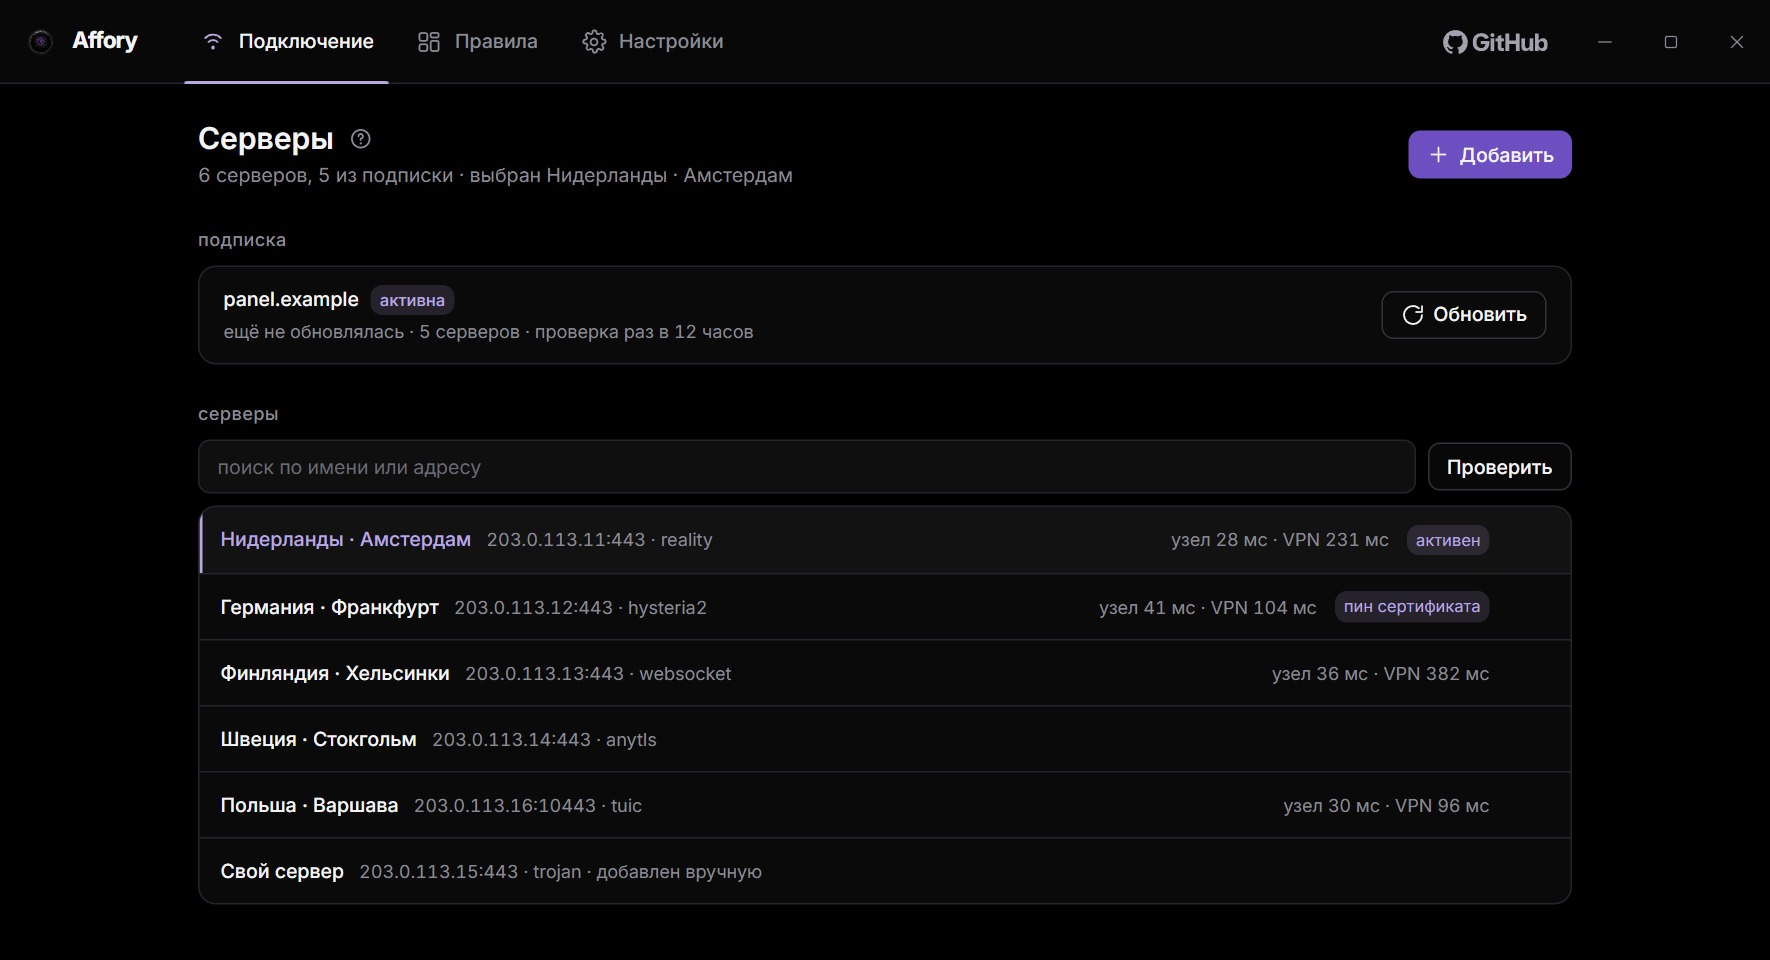
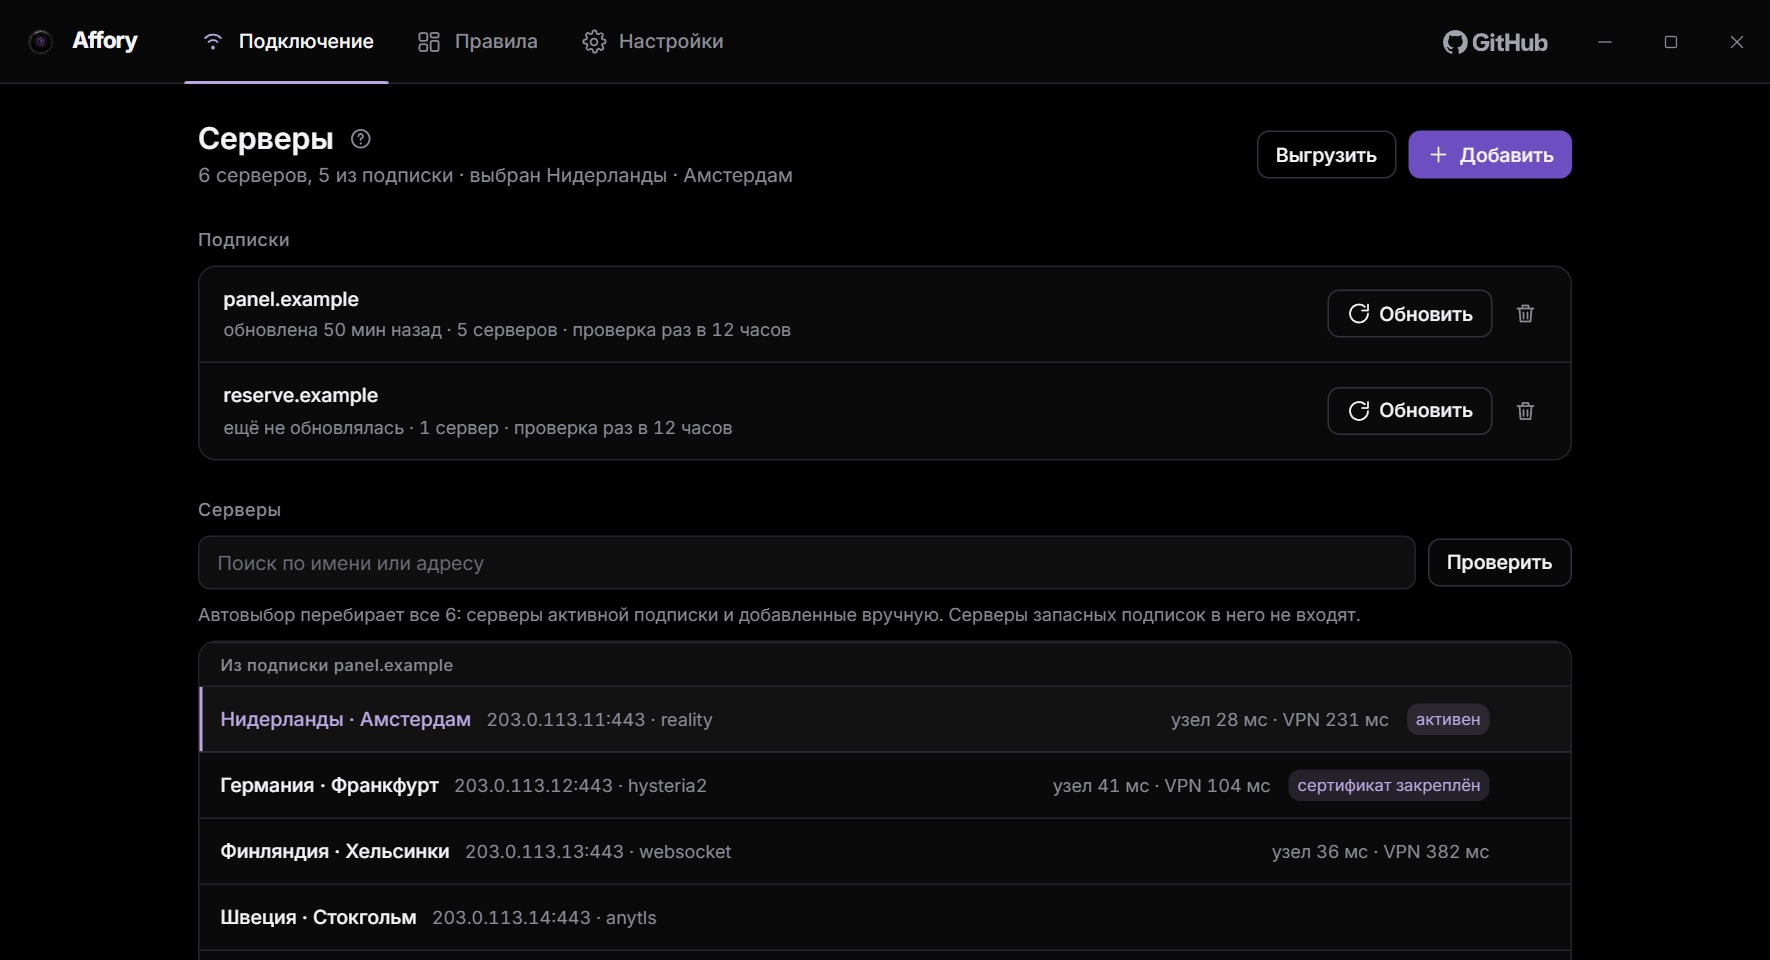
README по текущему окну: журнал и диагностика в «Настройках», снимки с вкладкой «Реклама», подпись сервисов без числа

diff --git a/README.md b/README.md
@@ -31,7 +31,7 @@
 - Хранить несколько подписок и переключаться между ними мгновенно.
 - Проверять соединение на утечки и показывать адрес выхода. Диагностика ничего не меняет, только смотрит.
 - Работать в трее, подключаться при запуске и блокировать сеть при обрыве VPN, если включена эта настройка. В трее видно доступное обновление.
-- Вести журнал соединений для разбора проблем со связью. Выключен по умолчанию, включается в разделе «Правила».
+- Вести журнал соединений для разбора проблем со связью и сохранять диагностику одним файлом без ключей, чтобы приложить к сообщению об ошибке. Журнал выключен по умолчанию. Оба лежат в «Настройках», раздел «Диагностика и журналы».
 
 ## Экраны
 
@@ -45,7 +45,7 @@
     <td align="center"><b>Чем отличаются протоколы</b><br><sub>Что даёт каждый и чем платит, по замерам</sub></td>
   </tr>
   <tr>
-    <td><a href="assets/screenshots/services.jpg"><img src="assets/screenshots/services.jpg" width="100%" alt="Правила сервисов: восемь популярных сервисов переключателями"></a></td>
+    <td><a href="assets/screenshots/services.jpg"><img src="assets/screenshots/services.jpg" width="100%" alt="Правила сервисов: популярные сервисы переключателями"></a></td>
     <td><a href="assets/screenshots/applications.jpg"><img src="assets/screenshots/applications.jpg" width="100%" alt="Правила приложений: выбор файла, маршрут и дочерние процессы"></a></td>
   </tr>
   <tr>
@@ -82,7 +82,7 @@
 
 Первые полминуты после смены сервера связь честно хуже, чем будет: протоколы поверх TCP выходят на режим не сразу. Справка о протоколах говорит, какой из них что даёт.
 
-Обновления клиент проверяет сам и ставит по кнопке в настройках. Если сервер обновлений недоступен, там же можно выбрать скачанный архив `affory-<версия>.zip` — файл `.sha256` должен лежать рядом, клиент сверяет его перед установкой.
+Обновления клиент проверяет сам и ставит по кнопке в настройках. Если сервер обновлений недоступен, там же можно выбрать скачанный архив `affory-<версия>.zip`: файл `.sha256` должен лежать рядом, клиент сверяет его перед установкой.
 
 Установщик подписан самоподписанным сертификатом. Windows может показать предупреждение о неизвестном издателе.
 
